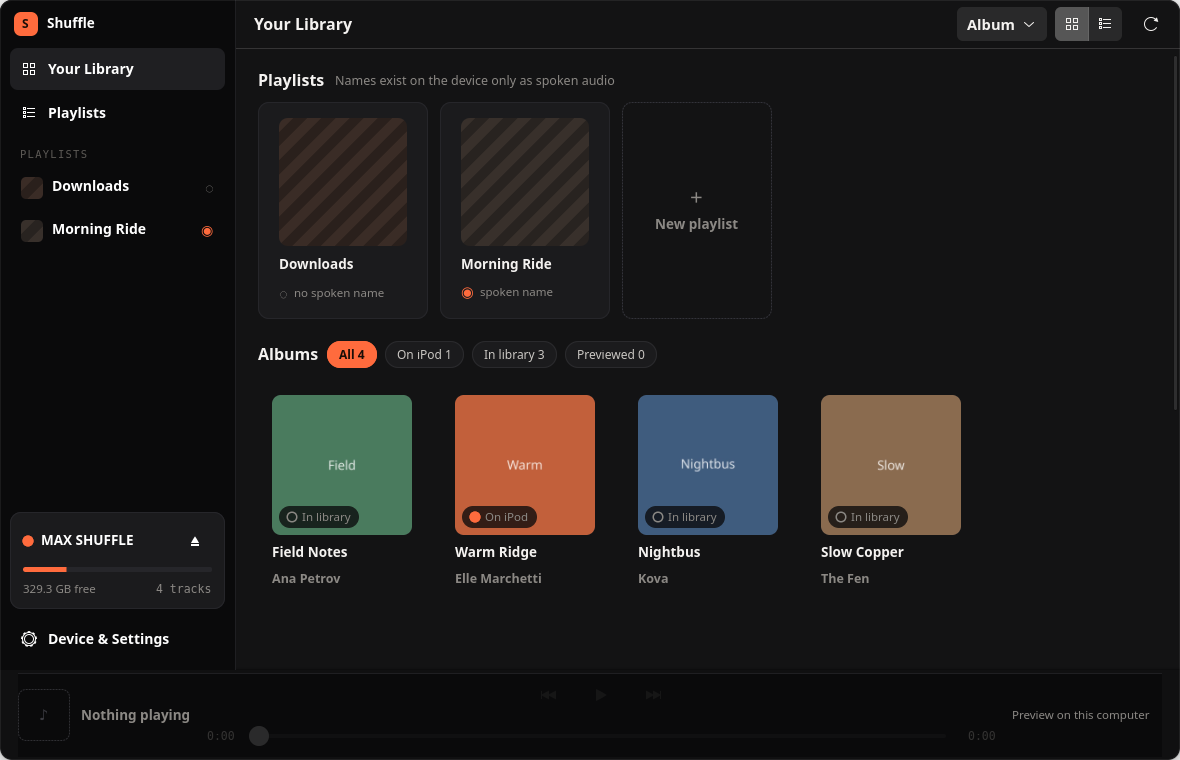
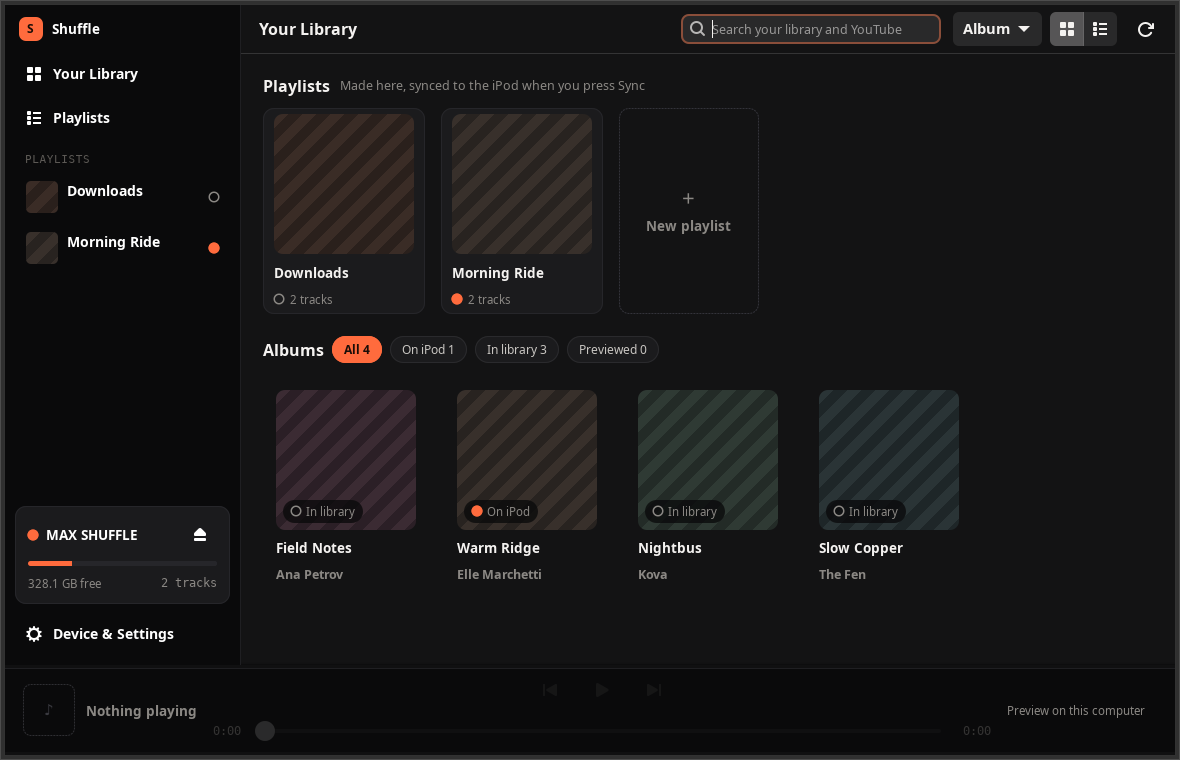
Build the demo library the screenshots are taken against
docs/screenshot.png showed the playlist shelf as it was before playlists
became files this app writes: the heading still read "Names exist on the
device only as spoken audio" and the tiles were marked "spoken name" and "no
spoken name" rather than carrying the state dot a track carries.

It could not simply be retaken. The library in it - four albums, two
playlists, an iPod called MAX SHUFFLE - was built by hand in a temporary
directory that no longer exists, and nothing recorded what had been in it. So
the shot went stale the moment the view changed and stayed that way, because
retaking it meant reconstructing a fixture from the picture of it.

tools/demo-library.py builds that fixture instead. Everything the window shows
is real: the tracks are tagged MP3s, the device is a stand-in volume that
ipod-sync.sh has actually written to, and the "On iPod" badge and the filled
dot beside Morning Ride are the app's own answers about that volume rather
than a fixture asserting them. The album covers are not files at all -
make_cover generates them from an "artist/title" seed, so the four names
choose the four colours.

The screenshot is retaken from it. Two things had to be pinned to make the
framing reproducible rather than a property of whoever ran it: the demo owns
its GTK config, because the desktop's 192dpi renders a sidebar twice as wide
and three albums to a row, and the tool documents running it under Xephyr,
where the window comes up at exactly 1180x760 on any machine.

diff --git a/tools/demo-library.py b/tools/demo-library.py
@@ -1,0 +1,250 @@
+#!/usr/bin/env python3
+"""Builds the demo library the README screenshots are taken against.
+
+The screenshots in `docs/` show a library nobody has: four albums with cover
+art the app generates itself, a playlist that has reached the device and one
+that has not, and an iPod called MAX SHUFFLE. That library used to be built by
+hand in a temporary directory, which is why `docs/screenshot.png` went stale
+and could not simply be retaken - the directory was gone and nothing recorded
+what had been in it.
+
+So it is built here instead. Everything the window shows is real: the tracks
+are real MP3s with real tags, the device is a stand-in volume that
+`ipod-sync.sh` has actually written to, and the "On iPod" badges and playlist
+dots are the app's own answers about that volume rather than a fixture's
+claims about itself.
+
+    tools/demo-library.py /tmp/shuffle-demo
+
+prints the command that launches the app against what it built.
+
+The album covers are not files. `make_cover` generates a placeholder from an
+"artist/title" seed when a track has no embedded art, so the colours in the
+screenshot follow from the names below and nothing else - which is why the
+same four albums always come out the same four colours.
+"""
+
+import argparse
+import os
+import shutil
+import subprocess
+import sys
+from pathlib import Path
+
+
+REPO = Path(__file__).resolve().parents[1]
+
+# The device's name is its mount point's basename, the way a real volume's is.
+IPOD_NAME = "MAX SHUFFLE"
+
+# Four albums, because the screenshot's state pills count albums and reading
+# "All 4 / On iPod 1 / In library 3" is the point of the shot. Warm Ridge is
+# the one that gets synced, so it is the only one wearing an "On iPod" badge.
+ALBUMS = [
+    ("Ana Petrov", "Field Notes", ["Paper Boats", "Coastal Road"]),
+    ("Elle Marchetti", "Warm Ridge", ["Low Sun", "Ridge Line"]),
+    ("Kova", "Nightbus", ["Last Stop"]),
+    ("The Fen", "Slow Copper", ["Slow Copper"]),
+]
+
+# One playlist that reaches the device and one that does not, because the dot
+# beside a playlist means the same thing it means beside a track and a shot
+# with only one state cannot show that.
+SYNCED_PLAYLIST = "Morning Ride"
+LOCAL_PLAYLIST = "Downloads"
+
+
+def run(command, **kwargs):
+    """Run a command, failing loudly rather than leaving a half-built demo."""
+    result = subprocess.run(command, capture_output=True, text=True, **kwargs)
+    if result.returncode != 0:
+        sys.exit(
+            f"{command[0]} failed ({result.returncode}):\n"
+            f"{result.stderr.strip() or result.stdout.strip()}"
+        )
+    return result
+
+
+def write_track(path, artist, album, title, number):
+    """One second of silence, tagged the way a ripped file is tagged.
+
+    Real audio rather than a file of zeroes: the app reads durations with
+    mutagen and shows them, and the sync copies whatever it is handed, so a
+    track that is not decodable would be a demo of the wrong thing.
+    """
+    path.parent.mkdir(parents=True, exist_ok=True)
+    run([
+        "ffmpeg", "-loglevel", "error", "-y",
+        "-f", "lavfi", "-i", "anullsrc=r=44100:cl=stereo",
+        "-t", "1", "-c:a", "libmp3lame", "-b:a", "128k",
+        "-metadata", f"artist={artist}",
+        "-metadata", f"album={album}",
+        "-metadata", f"title={title}",
+        "-metadata", f"track={number}",
+        str(path),
+    ])
+
+
+def build_library(music):
+    """The four albums, as Artist/Album/NN - Title.mp3."""
+    built = {}
+    for artist, album, titles in ALBUMS:
+        paths = []
+        for number, title in enumerate(titles, start=1):
+            path = music / artist / album / f"{number:02d} - {title}.mp3"
+            write_track(path, artist, album, title, number)
+            paths.append(path)
+        built[album] = paths
+    return built
+
+
+def build_playlists(playlists_dir, tracks):
+    """The two playlists, as the M3U files the app itself would have written."""
+    playlists_dir.mkdir(parents=True, exist_ok=True)
+    lists = {
+        SYNCED_PLAYLIST: tracks["Warm Ridge"],
+        LOCAL_PLAYLIST: tracks["Nightbus"] + tracks["Slow Copper"],
+    }
+    for name, entries in lists.items():
+        path = playlists_dir / f"{name}.m3u"
+        body = "".join(f"{entry}\n" for entry in entries)
+        path.write_text(f"#EXTM3U\n{body}", encoding="utf-8")
+    return lists
+
+
+def pin_rendering(home):
+    """Pin the demo's GTK scale, so a screenshot is the same on any machine.
+
+    GTK sizes most of the window from the desktop's font DPI, which is 192 on
+    a HiDPI session and 96 on the one the existing screenshots were taken on -
+    the difference is a sidebar twice as wide and three albums to a row rather
+    than four. XSETTINGS wins over GDK_DPI_SCALE, so the value is written into
+    the demo's own config rather than the developer's: the demo replaces HOME
+    anyway, and nothing here touches the real desktop.
+    """
+    settings = home / ".config/gtk-4.0/settings.ini"
+    settings.parent.mkdir(parents=True, exist_ok=True)
+    settings.write_text(
+        # gtk-xft-dpi counts 1024ths of a point, so 96 dpi is 96 * 1024.
+        "[Settings]\ngtk-xft-dpi=98304\ngtk-font-name=Cantarell 11\n",
+        encoding="utf-8",
+    )
+
+
+def build_ipod(root):
+    """An empty volume shaped like a shuffle, for ipod-sync.sh to fill.
+
+    Speakable and Device are what tell the sync this is a shuffle rather than
+    any other VFAT stick: without them it refuses the volume, which is the
+    check that stops a sync from unpacking itself over somebody's camera card.
+    """
+    ipod = root / IPOD_NAME
+    for part in (
+        "iPod_Control/iTunes",
+        "iPod_Control/Music",
+        "iPod_Control/Speakable/System",
+        "iPod_Control/Device",
+    ):
+        (ipod / part).mkdir(parents=True, exist_ok=True)
+    speakable = ipod / "iPod_Control/Speakable/System/battery.wav"
+    speakable.write_bytes(b"spoken battery prompt\n")
+    (ipod / "iPod_Control/Device/SysInfo").write_bytes(b"device identity\n")
+    return ipod
+
+
+def sync(ipod, sources):
+    """Put one album and one playlist on the device, using the shipped sync.
+
+    Running the real script rather than staging files by hand is what makes
+    the badges in the screenshot true: the app reads the device back and says
+    what it finds there, so a fixture that only claimed to have synced would
+    show every album as "In library".
+    """
+    command = [
+        str(REPO / "ipod-sync.sh"),
+        "--ipod", str(ipod),
+        "--playlist-voiceover",
+        *[str(source) for source in sources],
+    ]
+    environment = {**os.environ, "IPOD_ASSUME_YES": "1"}
+    return subprocess.run(
+        command, capture_output=True, text=True, env=environment
+    )
+
+
+def main():
+    parser = argparse.ArgumentParser(description=__doc__)
+    parser.add_argument("root", type=Path, help="where to build the demo")
+    parser.add_argument(
+        "--keep",
+        action="store_true",
+        help="add to an existing demo instead of rebuilding it",
+    )
+    parser.add_argument(
+        "--no-sync",
+        action="store_true",
+        help="build the files but leave the device empty",
+    )
+    args = parser.parse_args()
+
+    if not shutil.which("ffmpeg"):
+        sys.exit("ffmpeg is needed to write the demo's tracks")
+
+    root = args.root.expanduser().resolve()
+    if root.exists() and not args.keep:
+        shutil.rmtree(root)
+    home = root / "home"
+    music = home / "Music"
+    music.mkdir(parents=True, exist_ok=True)
+
+    pin_rendering(home)
+    tracks = build_library(music)
+    playlists = build_playlists(music / "Playlists", tracks)
+    ipod = build_ipod(root)
+
+    if not args.no_sync:
+        synced = sync(
+            ipod,
+            [*tracks["Warm Ridge"], music / "Playlists" / f"{SYNCED_PLAYLIST}.m3u"],
+        )
+        if synced.returncode != 0:
+            print(
+                "warning: the sync did not finish, so the device will look "
+                f"empty:\n{synced.stderr.strip() or synced.stdout.strip()}",
+                file=sys.stderr,
+            )
+
+    print(f"Demo built in {root}")
+    print(f"  library    {music}")
+    print(f"  playlists  {', '.join(sorted(playlists))}")
+    print(f"  device     {ipod}")
+    print()
+    print("Launch the app against it with:")
+    print()
+    print(
+        "  # Quit any running Shuffle first: the app is single-instance, so a\n"
+        "  # second launch hands off to the one already running and this one\n"
+        "  # never opens a window of its own.\n"
+        "  #\n"
+        "  # For docs/screenshot.png, run it inside a nested server instead of\n"
+        "  # the real desktop - the window then comes up at exactly 1180x760\n"
+        "  # with four albums to a row, on any machine:\n"
+        "  #   Xephyr :9 -screen 1300x860 -dpi 96 -br -noreset &\n"
+        "  #   ...and add GDK_BACKEND=x11 GSK_RENDERER=cairo DISPLAY=:9\n"
+        "  # GSK_RENDERER because Xephyr offers no accelerated backend."
+    )
+    print()
+    # IPOD_VENV_PYTHON because replacing HOME also hides install.sh's
+    # virtualenv from the tag reader, and a library with no artist or album is
+    # a library with no album grid - the thing the screenshot is of.
+    print(
+        f'  env HOME="{home}" \\\n'
+        f'      FAKE_IPOD_MOUNT="{ipod}" \\\n'
+        f'      IPOD_VENV_PYTHON="{Path.home() / "ipod-tools/venv/bin/python"}" \\\n'
+        f'      PATH="{REPO / "tests" / "bin"}:$PATH" \\\n'
+        f'      {REPO / "ipod-gui.py"}'
+    )
+
+
+if __name__ == "__main__":
+    main()
